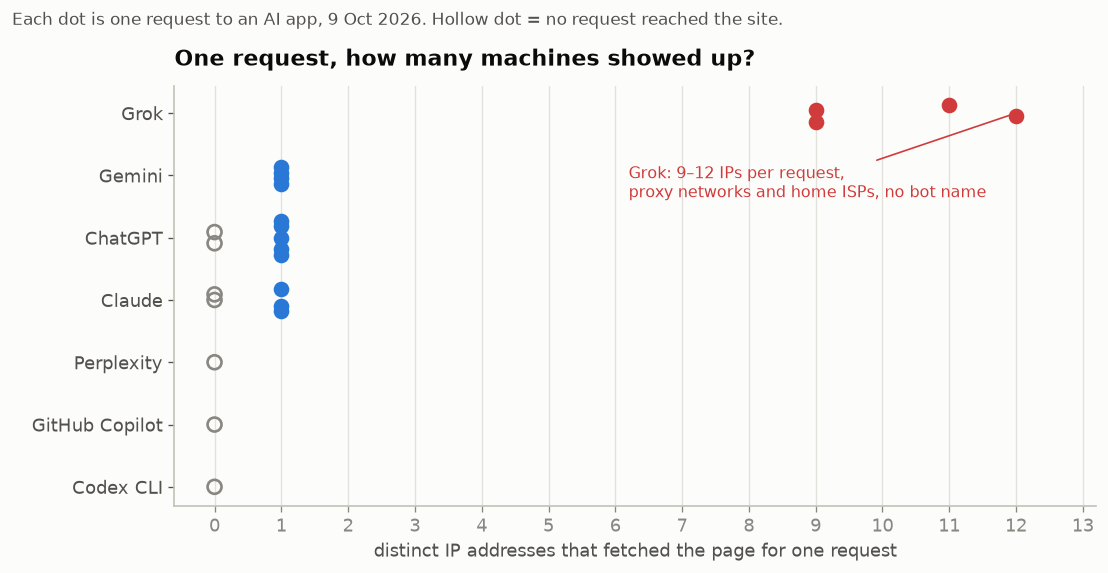
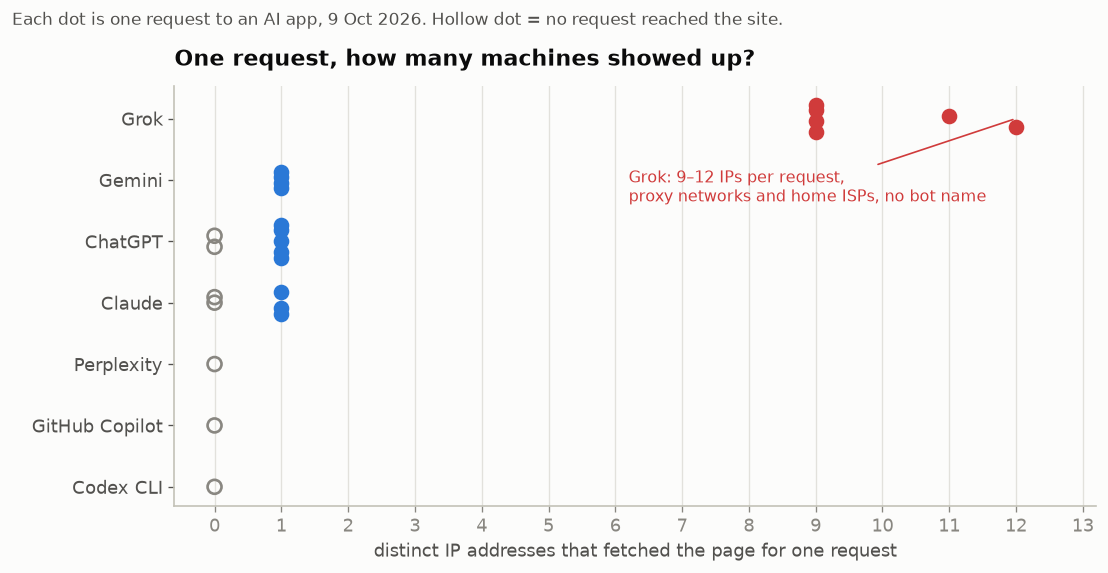
Add Grok's final round and the complete log
Round 7 sent Grok one open and one robots.txt-disallowed link. Same pattern
for the fifth and sixth time: 9 IPs each, browser user agents, no robots.txt
read, correct codes. Over six requests Grok used 59 different IPs on 33
networks in 14 countries, none reused; two requests went through AS396319
(Oxylabs).

Evidence regenerated from the final 98-row log, re-hashed and re-stamped.

diff --git a/README.md b/README.md
@@ -34,16 +34,16 @@ IP lookups guess. whofetched proves it causally: a URL that exists nowhere else 
 | **Claude** (claude.ai) | `Claude-User`, Google Cloud | Yes | Reads it **before** fetching | Refused | Stopped |
 | **ChatGPT** (chatgpt.com) | `ChatGPT-User`, Microsoft Azure, IP on OpenAI's list | Yes | Not on a first visit. OpenAI's search crawler reads it 1–3 min later | Read it on the first visit, refused once robots.txt was known | Stopped |
 | **Gemini** | A user agent of just `Google`, from Google's network, IP on none of Google's lists | Barely | Never read it | Read it | Not testable by user agent |
-| **Grok** | **9–12 IPs per request** on 7–9 networks: proxy networks, consumer ISPs, one network registered to Oxylabs. 41 different IPs over 4 requests, none reused | **No**, every request posed as a normal browser | Never read it | Read it | Not testable by user agent |
+| **Grok** | **9–12 IPs per request** on 7–9 networks: proxy networks, consumer ISPs, twice a network registered to Oxylabs. 59 different IPs over 6 requests, none reused | **No**, every request posed as a normal browser | Never read it | Read it | Not testable by user agent |
 | **Perplexity** | Only its crawler, `PerplexityBot`, which read robots.txt and the homepage, never the page | As its crawler | Yes | Never fetched any test page | — |
 | **GitHub Copilot** | Nothing | — | — | Declined the task | — |
 | **Codex CLI** | Nothing, although it printed "Opened" with the link | — | — | — | — |
 
-<img src="docs/charts/ips-per-request.png" alt="Dot chart of distinct IP addresses that fetched the page for one request, per AI app, on 9 October 2026. Grok: 9, 12, 9 and 11 IPs across four requests. Gemini: 1 in all four. ChatGPT: 1 in five requests and 0 in two refusals. Claude: 1 in three requests and 0 in two refusals. Perplexity, GitHub Copilot and Codex CLI: 0, no request reached the site." width="100%">
+<img src="docs/charts/ips-per-request.png" alt="Dot chart of distinct IP addresses that fetched the page for one request, per AI app, on 9 October 2026. Grok: 9, 12, 9, 11, 9 and 9 IPs across six requests. Gemini: 1 in all four. ChatGPT: 1 in five requests and 0 in two refusals. Claude: 1 in three requests and 0 in two refusals. Perplexity, GitHub Copilot and Codex CLI: 0, no request reached the site." width="100%">
 
 Also tested: Claude Code's fetch tool runs on **your own machine** and says `Claude-User (claude-code/…)`. Jina Reader fetches from Google Cloud as a generic Linux Chrome whose version hints don't match its user agent.
 
-Read this with care. It's 1–4 runs per app, done by hand on one day. OpenAI and Google both say that fetches a user asks for may skip robots.txt, so ChatGPT and Gemini reading an off-limits page matches their published policies. The point of the table is that you can now **see** each behavior instead of guessing. Every round, timestamp and reply is in [RESULTS.md](RESULTS.md).
+Read this with care. It's 1–6 runs per app, done by hand on one day. OpenAI and Google both say that fetches a user asks for may skip robots.txt, so ChatGPT and Gemini reading an off-limits page matches their published policies. The point of the table is that you can now **see** each behavior instead of guessing. Every round, timestamp and reply is in [RESULTS.md](RESULTS.md).
 
 **Prior work:** Cloudflare caught Perplexity's undeclared crawlers with a manual version of this test in 2025. StackFox reported in February 2026 that Grok sends spoofed browser user agents from data-center proxies. What's new here: a secret link per app as proof, robots.txt and 403 tests, home-ISP and Oxylabs exits, and a same-day comparison across apps.
 
@@ -113,7 +113,7 @@ Things that went wrong here, so you can skip them:
 
 | File | What it is |
 |---|---|
-| `hits.redacted.jsonl` | All 80 requests. Cloud and AI-company IPs kept in full, proxy and home-ISP IPs cut to /24, the operator's own address replaced |
+| `hits.redacted.jsonl` | All 98 requests. Cloud and AI-company IPs kept in full, proxy and home-ISP IPs cut to /24, the operator's own address replaced |
 | `probes.jsonl` | Which link went to which app, when, and the code it should show |
 | `answers.jsonl` | What each app replied |
 | `summary.json` | The per-request numbers behind the table and chart |
@@ -123,7 +123,7 @@ Check it with `ots verify SHA256SUMS.ots`. The raw log can be shared on request 
 
 ## Limits
 
-- **Small sample.** 1–4 runs per app, by hand, on one day (9 Oct 2026, 08:11–09:02 UTC). These apps change often.
+- **Small sample.** 1–6 runs per app, by hand, on one day (9 Oct 2026, 08:11–09:28 UTC). These apps change often.
 - **One account per app,** default settings. Plans, regions and models may behave differently.
 - **Tiny test pages on `workers.dev`.** Perplexity flagged the domain as possible phishing. Real sites may be treated differently.
 - **Proof covers page requests only.** Page requests carry the secret token. robots.txt reads don't, so they're matched by user agent, verified IP and timing.

diff --git a/RESULTS.md b/RESULTS.md
@@ -36,7 +36,7 @@ Side tools:
 The operator reused existing chats this round.
 
 - **Repeats** matched r1c for all four apps, with correct codes.
-- **Grok's repeat:** 11 page requests plus 1 malformed `/c/<token>:`, from **12 IPs on 9 networks in 7 countries** (AR, BR, GB, JP, MX, US, VE). These included consumer ISPs (ALCANS and Aranet Play in Brazil, UniNet in Mexico, FI-VEN in Venezuela, I-SUR in Argentina). The malformed request came from **AS396319, registered to Oxylabs**.
+- **Grok's repeat:** 11 page requests plus 1 malformed `/c/<token>:`, from **12 IPs on 9 networks in 7 countries** (AR, BR, GB, JP, MX, US, VE). These included consumer ISPs (ALCANS and Aranet Play in Brazil, UniNet in Mexico, FI-VEN in Venezuela, I-SUR in Argentina). The malformed request came through **AS396319, a network registered to Oxylabs**. RIPEstat lists the network holder as "US-INTERNET-396319 - Oxylabs", and the IP block itself is leased to Sentris Network LLC.
 - **`/blocked/`, disallowed in robots.txt:**
   - Gemini read it.
   - Grok read it: 8 requests plus 1 malformed, from 9 IPs on 7 networks in 6 countries, including Claro in Brazil and UAinet in Ukraine.
@@ -63,6 +63,15 @@ ChatGPT refused with "restricted-URL error" and sent **zero requests**. This ran
 
 ChatGPT fetched `/p/RnpqYz3LGGm`, which is the link with its last character missing, and then `/` a second later. It reported `GILDED-RIDGE-1257`, which is the code of the truncated URL. The host was not blocked, so r4's refusal was about the `/q/` path, meaning robots.txt.
 
+### r7: Grok's last chance (09:23–09:28)
+
+Two more links, each in a new chat: an open `/p/` page and an off-limits `/q/` page on the fresh hostname. Grok showed the same pattern for the fifth and sixth time:
+- **`/p/`:** 9 requests from 9 IPs on 7 networks (GB, MX, PL, US), between 09:23:05 and 09:24:18. The networks included Datacamp, the proxy network StackFox named in February.
+- **`/q/`, off-limits:** 9 requests from 9 IPs on 9 networks (BR, PL, US), between 09:23:37 and 09:27:57. They included the Polish mobile carrier Play, three small Brazilian ISPs (Telemidia, Escorpion, ENGEPLUS) and, for the second time, Oxylabs' network AS396319.
+- Every request used a browser user agent. None read robots.txt, and both codes were correct.
+
+Over all six requests, Grok used **59 different IPs on 33 networks in 14 countries, and none was used twice**.
+
 ## ChatGPT and robots.txt
 
 | Round | Off-limits page | OpenAI already had this host's robots.txt? | ChatGPT |
@@ -85,7 +94,7 @@ Checked with `tools/verify-ips.js` against the lists published on 9 October 2026
 | PerplexityBot | 18.97.9.96, 18.97.9.98 | Yes, Perplexity's `perplexitybot.json` |
 | Gemini (`Google`) | 142.250.88.32, .33, .34, 108.177.64.35 | **No.** On none of Google's user-triggered-fetcher, special-crawler or Googlebot lists, though inside Google's own network |
 | Claude-User | 34.162.191.81 | No list checked. Google Cloud (AS396982) |
-| Grok | 41 distinct addresses on 25 networks in 13 countries, over 4 requests. None was reused between requests | No list, as expected |
+| Grok | 59 distinct addresses on 33 networks in 14 countries, over 6 requests. None was reused between requests | No list, as expected |
 
 None of these IPs had a reverse-DNS (PTR) record.
 
